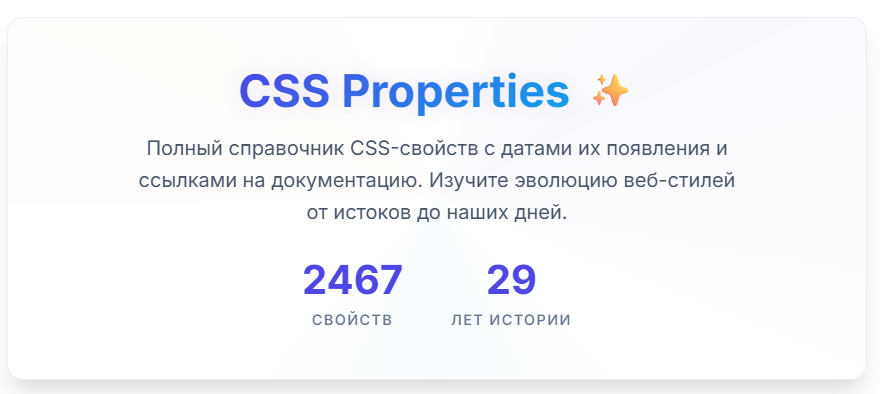
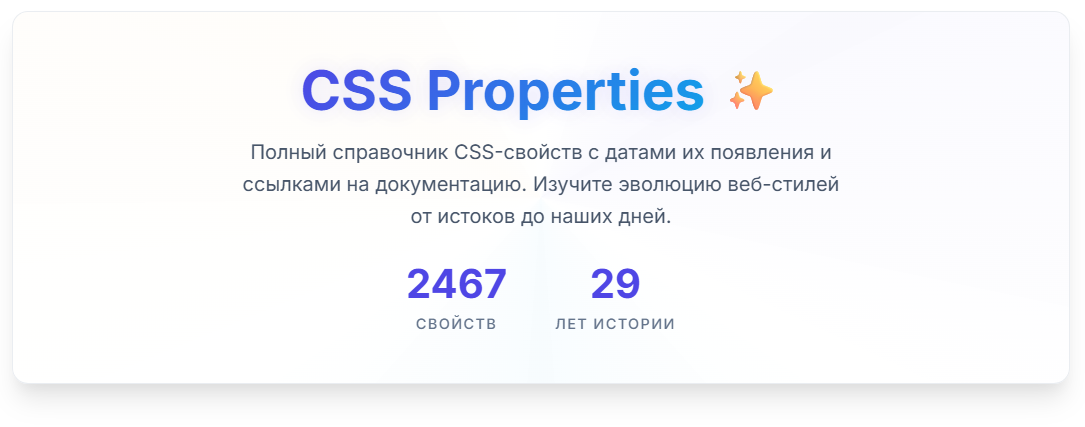
Update image size

diff --git a/README.md b/README.md
@@ -1,5 +1,5 @@
 <div align="center">
-    <img width="880" height="394" src="./assets/hello.png" alt="css logo" />
+    <img width="1085" height="427" src="./assets/hello.png" alt="css logo" />
 </div>
 
 # css-properties
